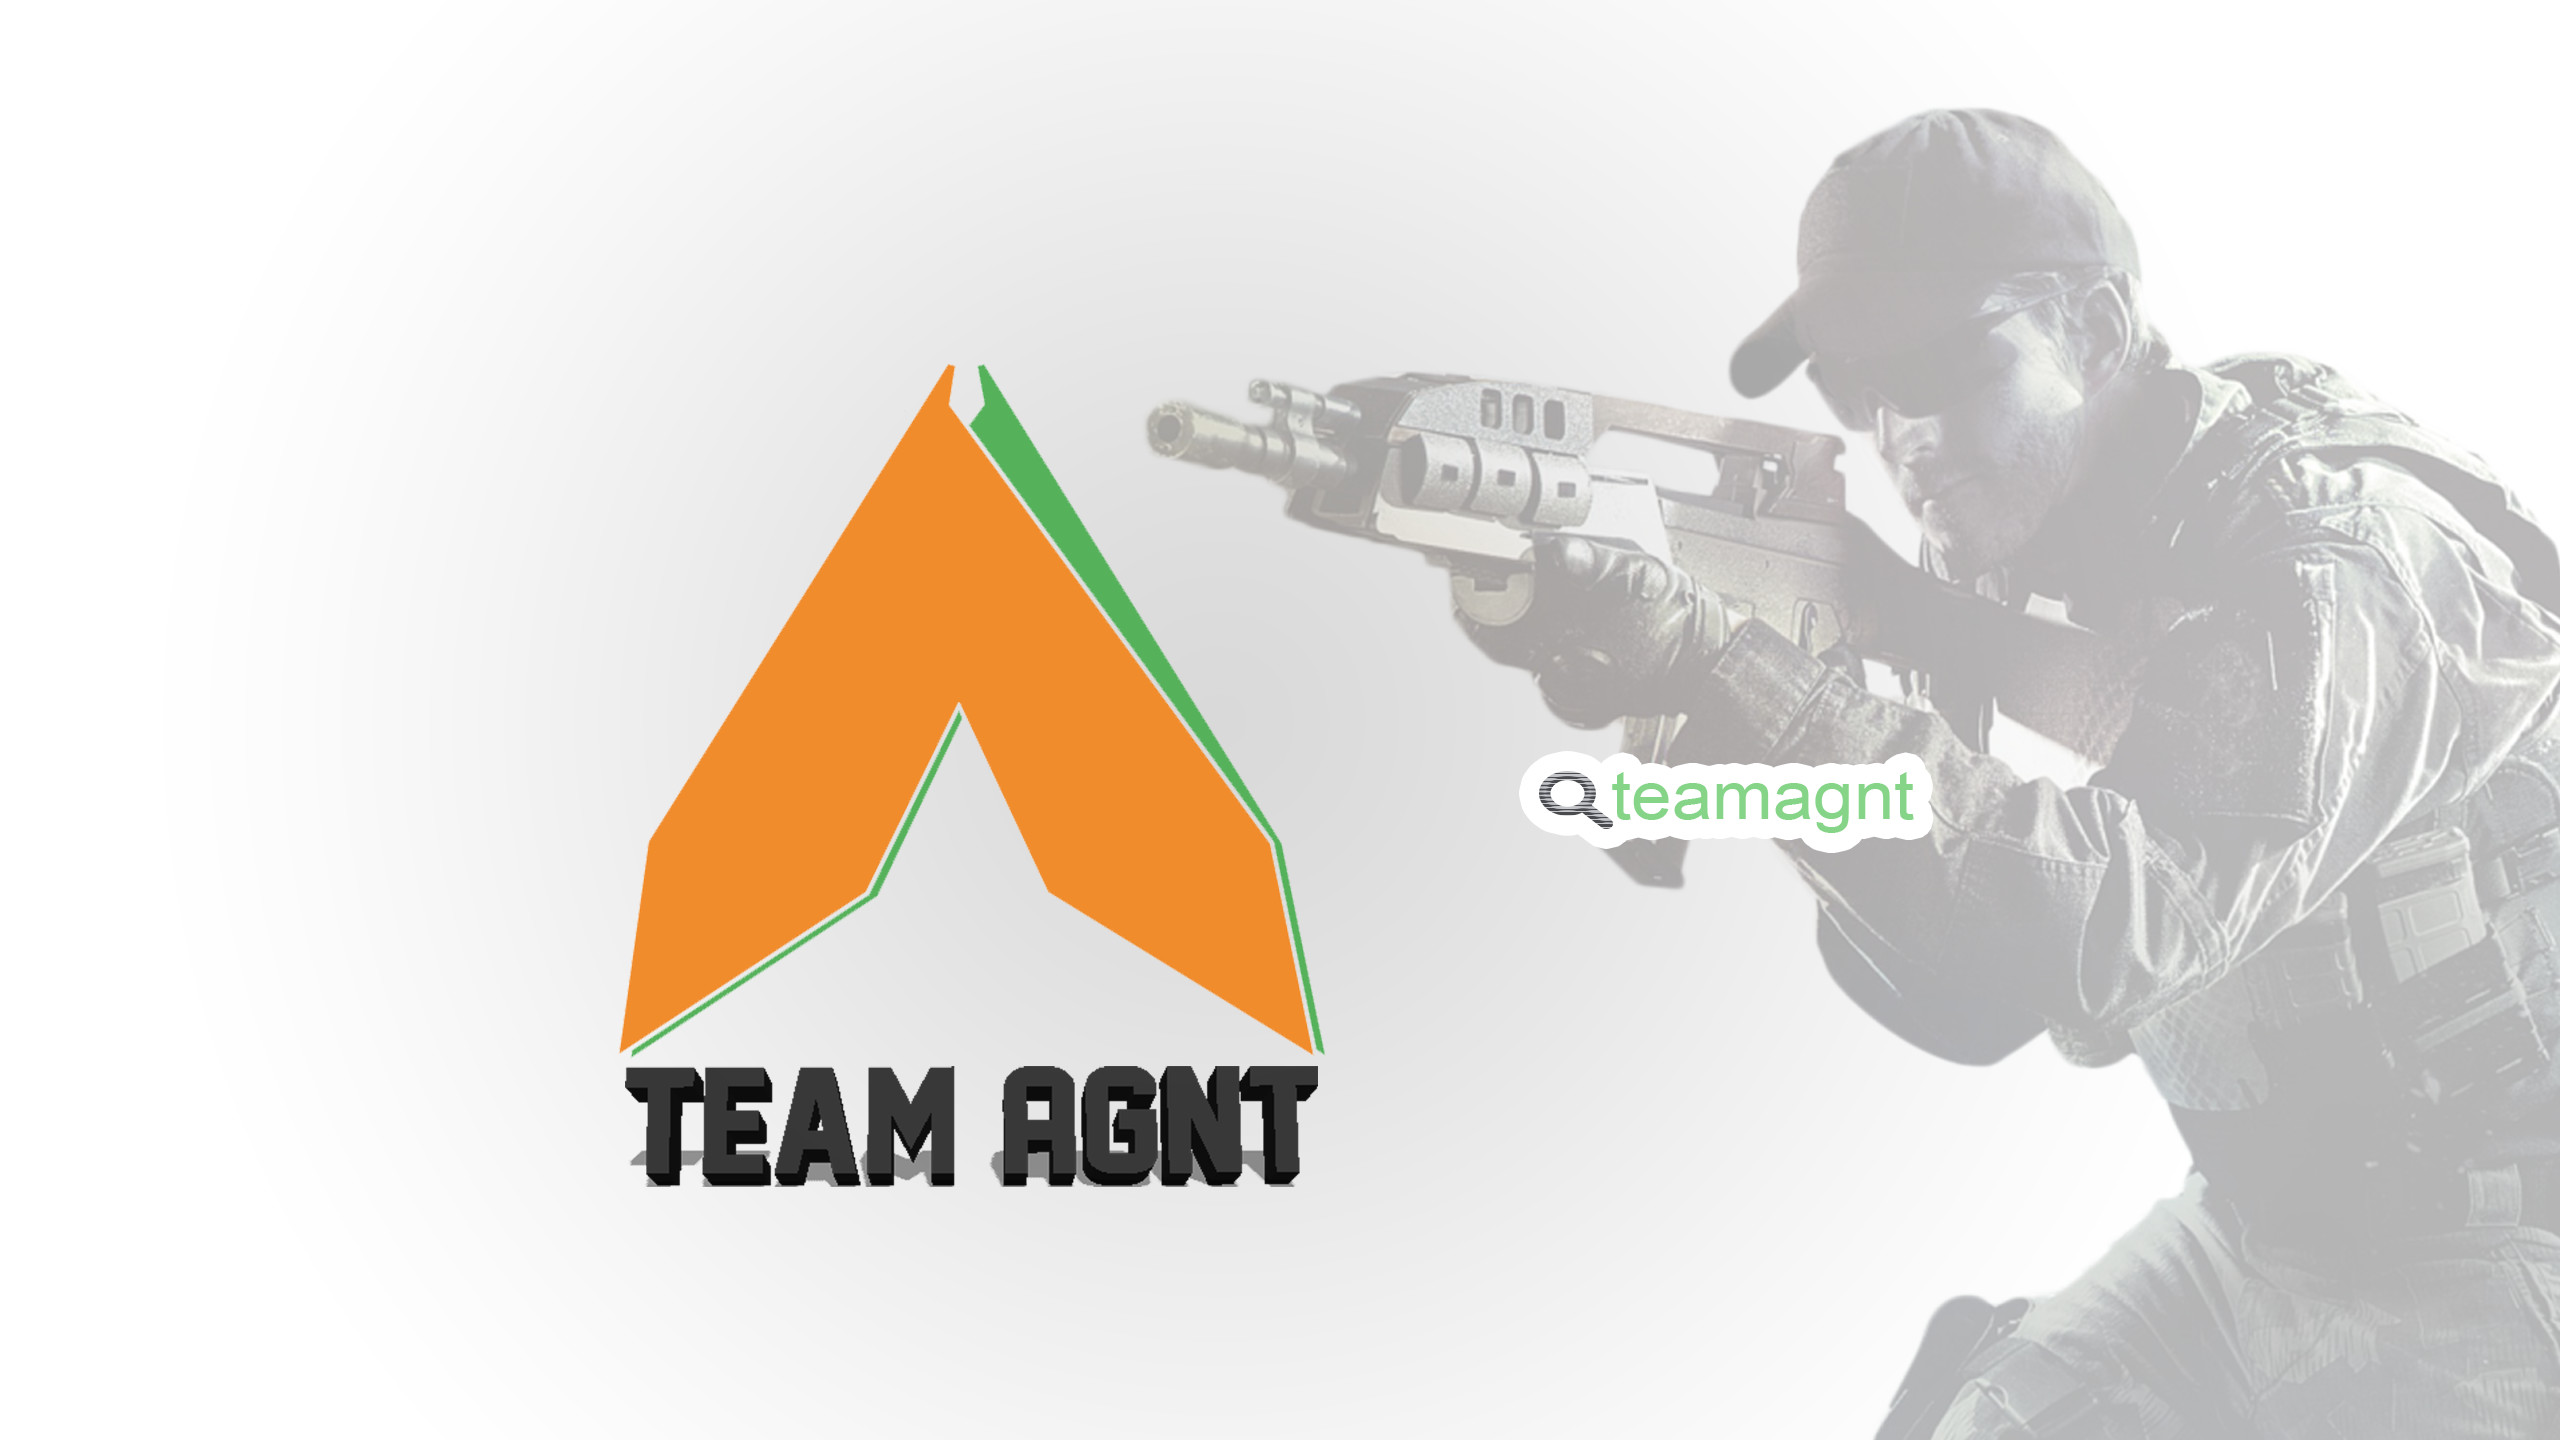
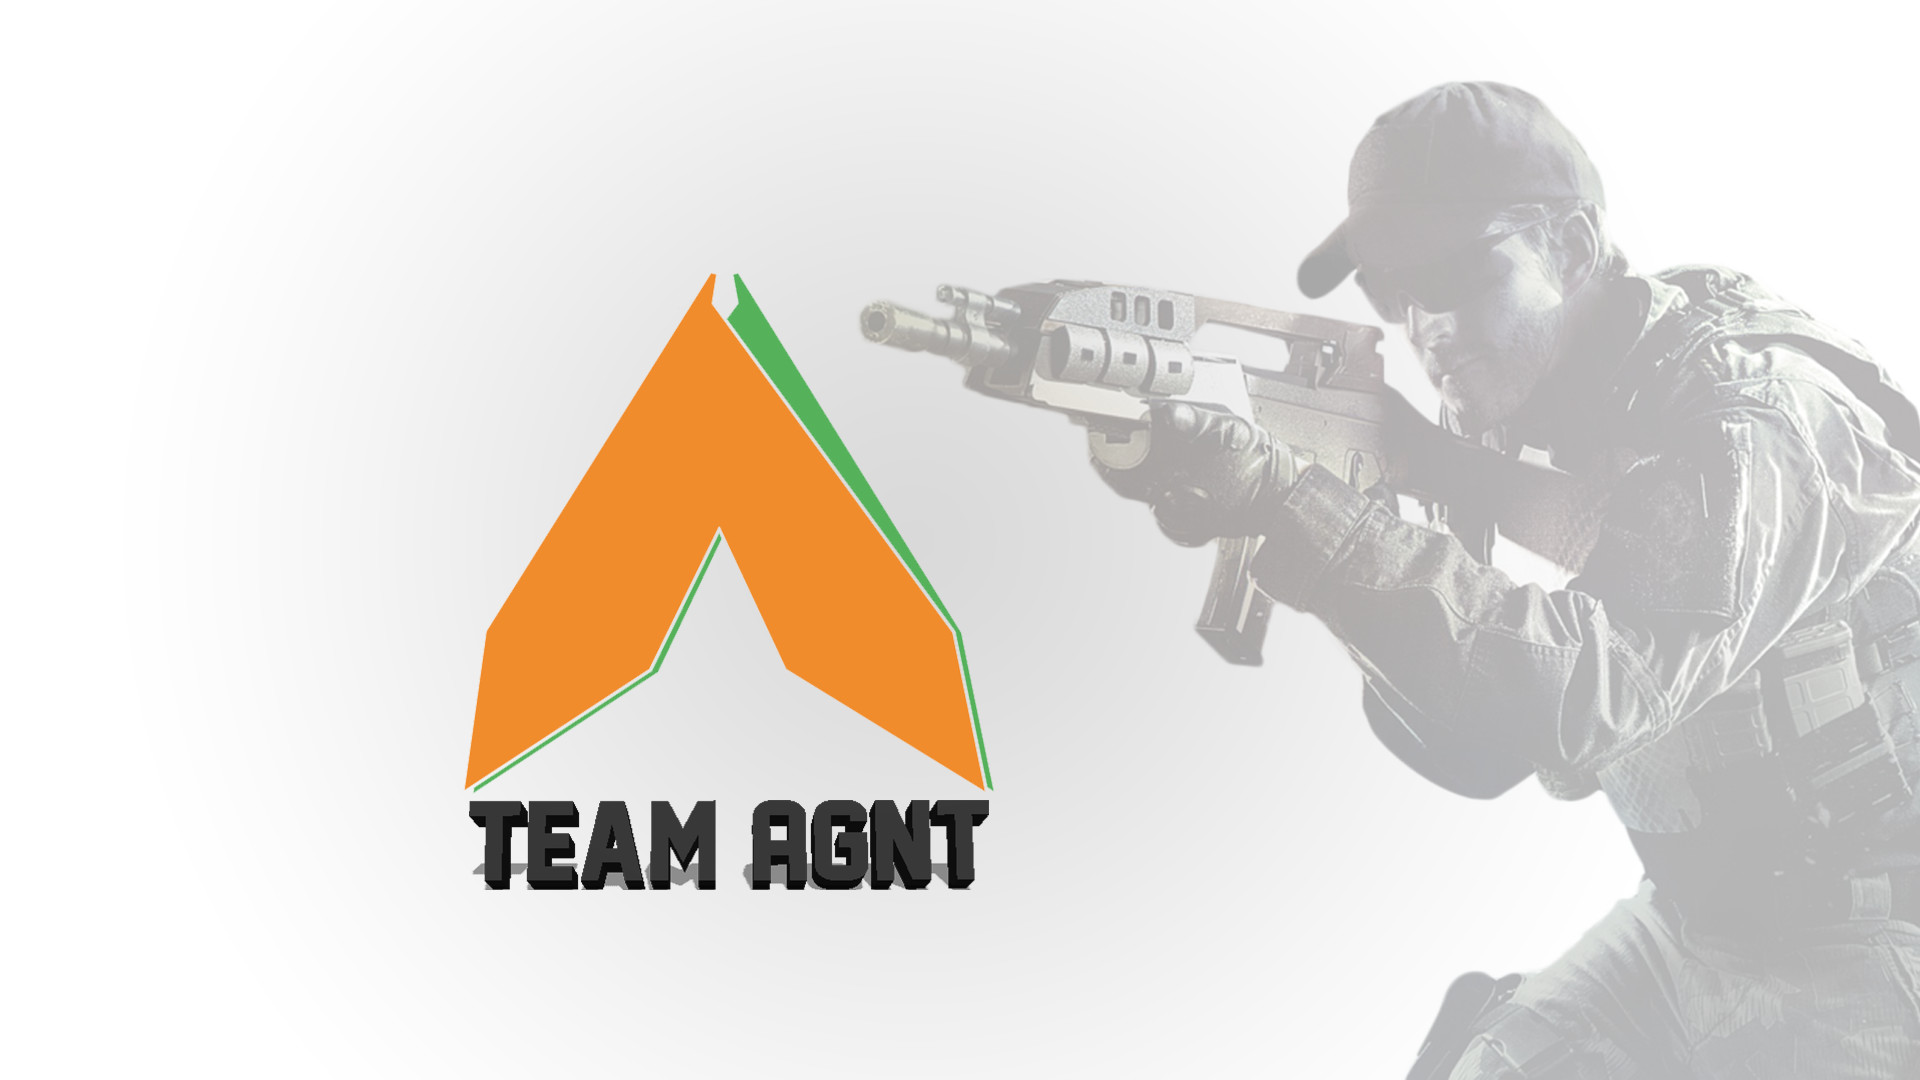
Landscape responsive design is working
99% website completed!! Will keep updating this website as per future
needs.

Changed region(s): [[0.5938, 0.5194, 0.7812, 0.6111], [0.2812, 0.7944, 0.3125, 0.825]]

diff --git a/styles.css b/styles.css
@@ -2,40 +2,38 @@
 /* common for all */
 @media only screen
   and (orientation: portrait){
-body{
-  position: absolute;
-  height:100vh;
-  width: 100vw;
-  margin: 0 auto;
-}
-    #nav{
-      display: block;
-      position: relative;
-      top: 0;
 
-      margin-bottom: 2vh;
-      background-color: #ccc;
+    body{
+      position: absolute;
+      height:100vh;
       width: 100vw;
-      height: 10vh;
+      margin: 0 auto;
     }
 
     #menu1, #menu2{
+      position: absolute;
       float: left;
-      width: 10vw;
-      margin-left: 2vw;
-      margin-top: 1.1vh;
-    }
-
-    #email {
-      display: inline;
-      float: left;
+      width: 10vmin;
+      margin-left: 2vmax;
+      margin-top: 2vmax;
     }
 
     #sidebar {
-      height: 50vh;
-      width: 50vw;
+      display: none;
+      position: fixed;
+      height: 50vmax;
+      width: 50vmin;
       background-color: #ccc;
-      z-index: 888;
+      z-index: 999;
+    }
+
+    #email {
+      display: block;
+
+      margin-top: 15vmax;
+      margin-left: 5vmax;
+      font-size: 5vmin;
+      font-weight: bold;
     }
 
     .img_bg {
@@ -44,6 +42,7 @@ body{
       height: auto;
 
       margin: 0 auto;
+      margin-top: 5vh;
     }
 
     .icons{
@@ -56,9 +55,13 @@ body{
       margin-left: 1vw;
     }
 
+    .tatext {
+      display: none;
+    }
+
     .text {
       display: block;
-      font-size: 5vw;
+      font-size: 5vmax;
       font-weight: bold;
       font-family: fantasy;
     }
@@ -66,14 +69,13 @@ body{
     #footer{
       position: relative;
       bottom: 0;
+      left: 0;
       width: 100vw;
       background-color: #ba1;
 
       margin-top: 5vh;
-      padding-top: 1%;
-      padding-bottom: 1%;
+      padding: 1vmin 0;
     }
-  }
 
   .youtubevid{
      display: block;
@@ -83,11 +85,81 @@ body{
      width: 80vw;
      height: auto;
   }
+}
 
   @media only screen
     and (orientation: landscape){
-      *{
+
+      #nav, #menu1, #menu2, #email, #sidebar, .img_bg, .icons, .tw_icon, .ig_icon, .sc_icon, .yt_icon, .fb_icon, .text, #footer, .youtubevid{
         display: none;
       }
+
+      body {
+        background: url("bg_desktop.jpg") no-repeat center center fixed;
+        -webkit-background-size: cover;
+        -moz-background-size: cover;
+        -o-background-size: cover;
+        background-size: cover;
+      }
+
+      #menu1, #menu2{
+        position: absolute;
+        top: 0;
+        left: 0;
+        float: left;
+        width: 10vmin;
+        margin-left: 2vmax;
+        margin-top: 2vmax;
+      }
+
+      #sidebar {
+        display: none;
+        position: fixed;
+        top:0;
+        left: 0;
+        width: 50vmin;
+        height: 100vh;
+        background-color: #ccc;
+        z-index: 999;
+      }
+
+      #email {
+        display: block;
+
+        margin-top: 15vmax;
+        margin-left: 5vmax;
+        font-size: 5vmin;
+        font-weight: bold;
+      }
+
+      .icons{
+        display: block;
+        margin-top: 40vh;
+        margin-left: 75vh;
+      }
+
+      .tw_icon, .ig_icon, .sc_icon, .yt_icon, .fb_icon{
+        display: inline;
+        width: 8vmin;
+        margin-left: 1vmin;
+      }
+
+      .tatext {
+        display: block;
+        width: 20vmax;
+      }
+
+      #footer{
+        display: block;
+        position: absolute;
+        bottom: 0;
+        left: 0;
+        width: 100vw;
+        background-color: #ba1;
+
+        margin-top: 5vh;
+        padding: 1vmin 0;
+      }
+
 }
 /* ends */

diff --git a/index.html b/index.html
@@ -11,14 +11,32 @@
 <script type="text/javascript" src="jquery-3.0.0.min.js"></script>
 <script src="script.js"></script>
 
+<script type="text/javascript">
+function start() {
+  document.getElementById('menu1').style.display="block";
+  document.getElementById('menu2').style.display="none";
+  document.getElementById('sidebar').style.display="none";
+  document.getElementById('email').display="none";
+}
+</script>
+
 <body onload="start()">
-  <div id="nav">
-    <img onclick="disimg1()" id="menu1" src="img/menu1.png"/>
-    <img onclick="disimg2()" id="menu2" src="img/menu2.png"/>
+  <img onclick="disimg1()" id="menu1" src="img/menu1.png"/>
     <div id="sidebar">
-      <p id="email"><a href="http://www.teamagnt.com/mail">Email Login</a></p>
+      <table>
+        <tr>
+          <td>
+            <img onclick="disimg2()" id="menu2" src=""/>
+          </td>
+        </tr>
+        <tr>
+          <td>
+            <p id="email" align="center"><a href="http://www.teamagnt.com/mail">Email Login</a></p>
+          </td>
+        </tr>
+      </table>
     </div>
-  </div>
+
       <img class="img_bg" src="bg.png" alt="logo"/>
     <div class="icons" align="center">
       <a href="https://twitter.com/TeamAgnT">
@@ -36,6 +54,7 @@
       <a href="https://www.fb.com/teamagnt">
         <img class="fb_icon" src="img/fb_icon.png" alt="fb"/>
       </a>
+        <img class="tatext" src="img/tatext.png" alt="teamagnt"/>
     </div>
     <div class="text" align="center">
         Reach us out through social media!!
@@ -44,7 +63,7 @@
     <iframe class="youtubevid" src="https://www.youtube.com/embed/kSDCl7IYhHs" frameborder="0" allowfullscreen></iframe>
 
     <div id="footer" align="center">
-      All Rights Reserved!! 2016
+      Copyright &copy; 2016 All Rights Reserved.
     </div>
 </body>
 </html>

diff --git a/script.js b/script.js
@@ -1,15 +1,9 @@
-function start() {
-  document.getElementById('menu1').style.display="block";
-  document.getElementById('menu2').style.display="none";
-  document.getElementById('sidebar').style.display="none";
-  document.getElementById('email').display="none";
-}
-
 function disimg1() {
   document.getElementById('menu1').style.display="none";
   document.getElementById('menu2').style.display="block";
   document.getElementById('sidebar').style.display="block";
   document.getElementById('email').display="inline";
+  document.getElementById('menu2').src="img/menu2.png";
 }
 
 function disimg2() {
